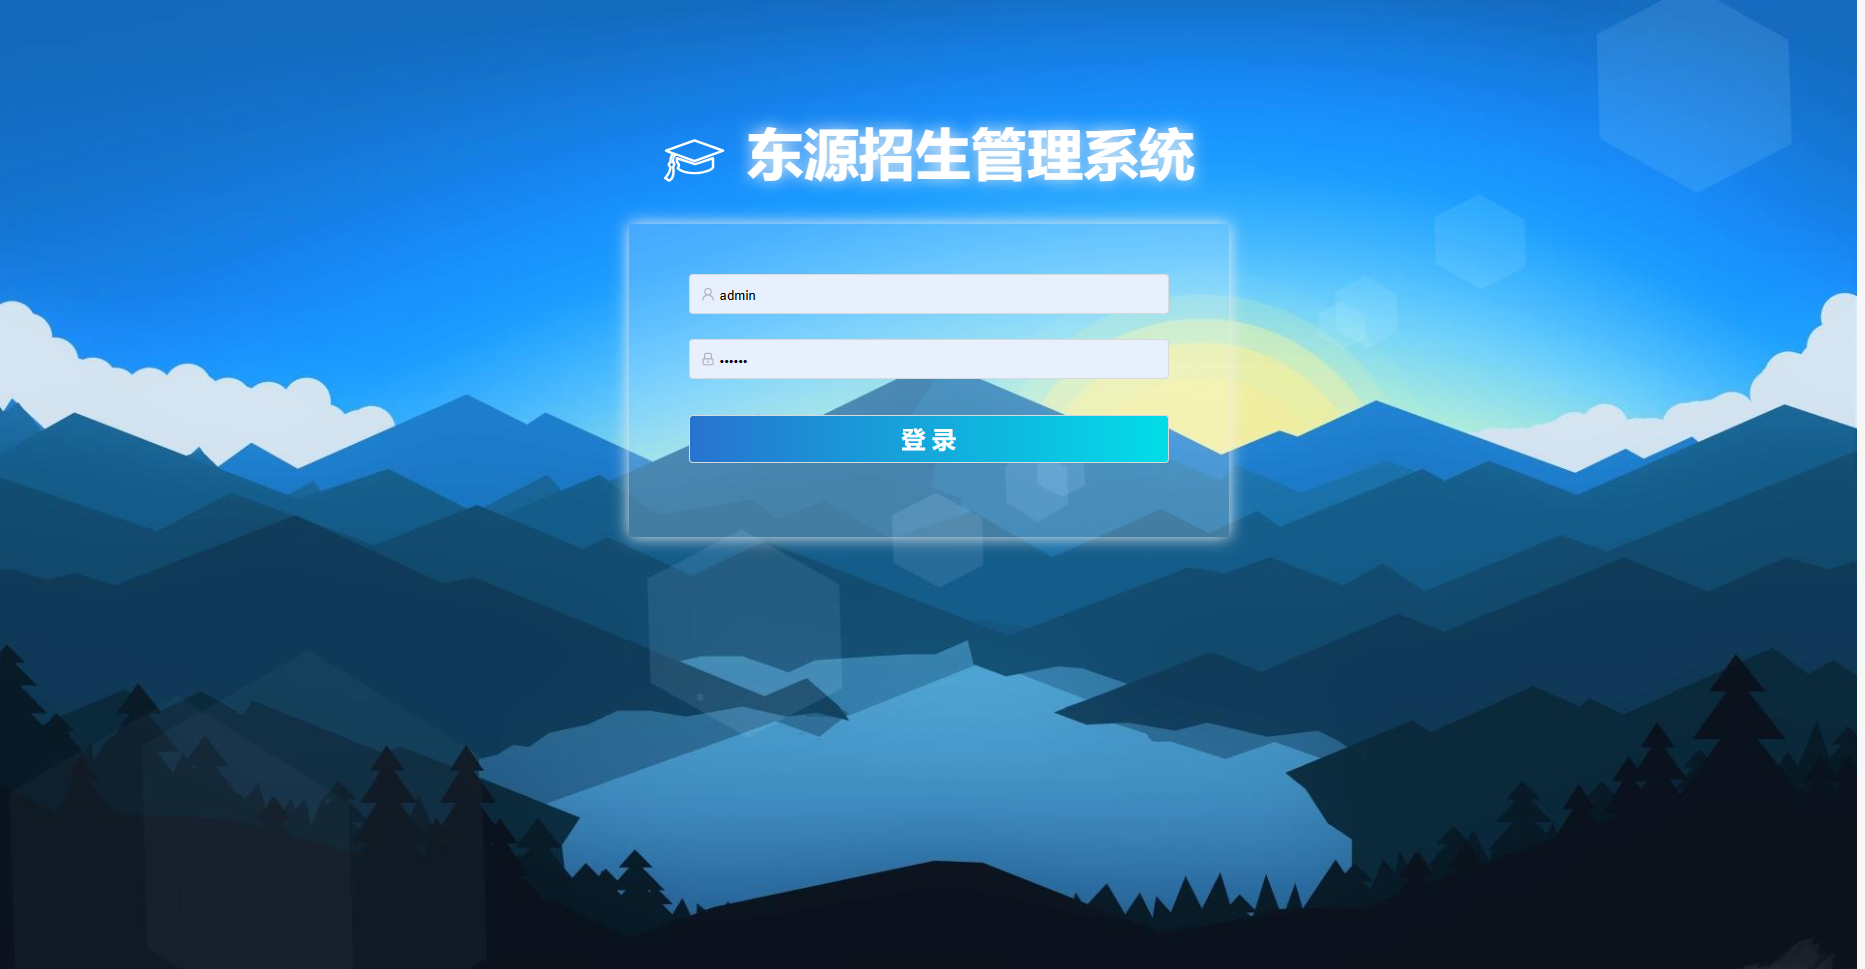
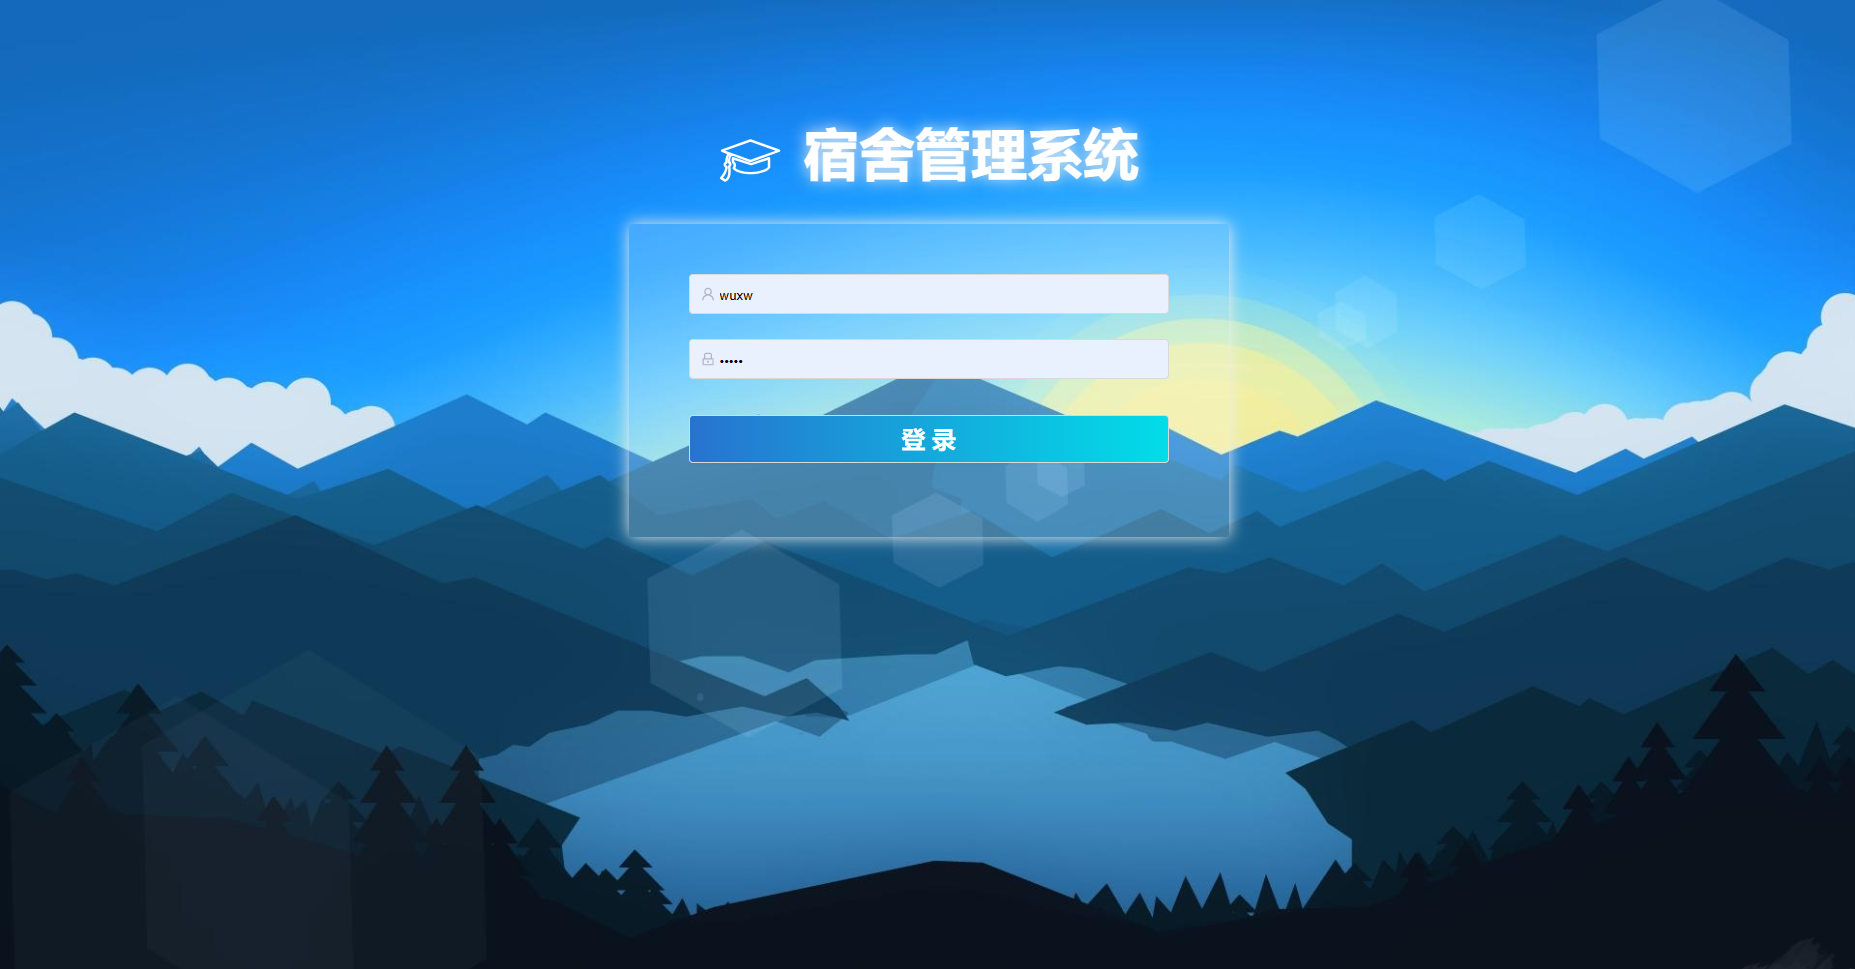
update README.md.

diff --git a/README.md b/README.md
@@ -2,7 +2,7 @@
 
 ### 介绍
 
-招生管理系统是基于VUE+ elementui的开源招生管理平台系统；其中提供包含如招生、录取、迎新等各个方面的服务，方便用户可以使用本系统快捷、简洁、从容的完成关于招生的数据操作、管理。
+宿舍管理系统是基于VUE+ elementui的开源宿舍管理平台系统；其中提供包含如宿舍资产、宿务、住宿考勤、制度管理、宿舍统计等各个方面的服务，方便用户可以使用本系统快捷、简洁、从容的完成关于学生宿舍相关的数据操作、管理。
 
 ### 软件架构
 
@@ -39,6 +39,7 @@ npm run build
 ![输入图片说明](src/assets/image1.png)
 ![输入图片说明](src/assets/image2.png)
 ![输入图片说明](src/assets/image3.png)
+
 ### 联系方式
 ### 微信联系方式
 
